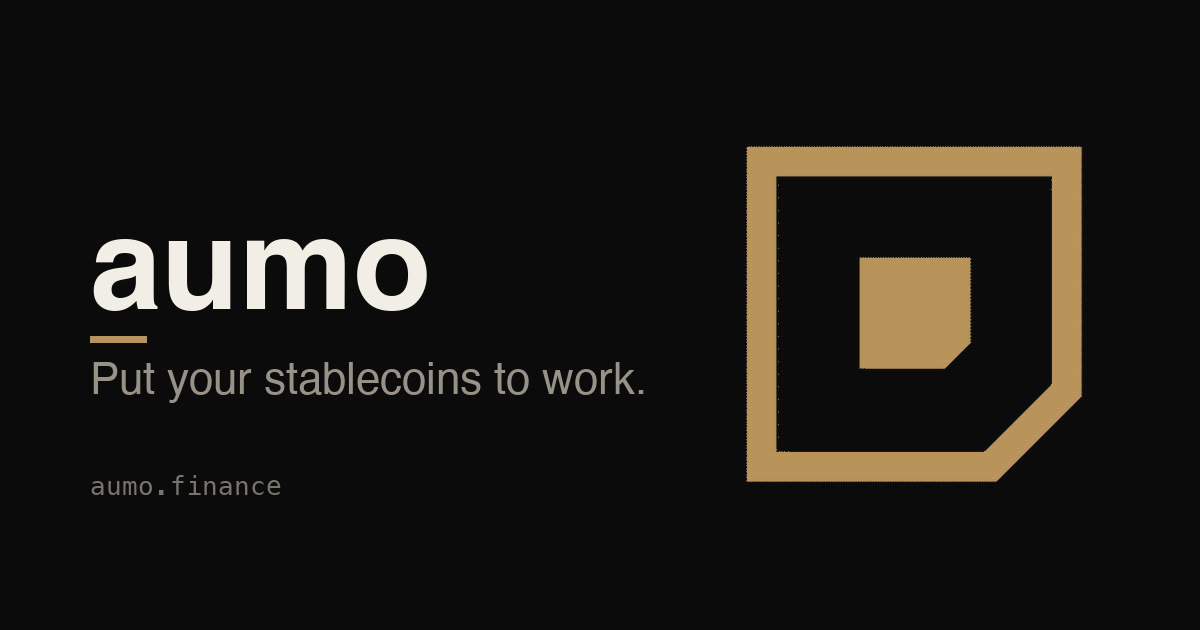
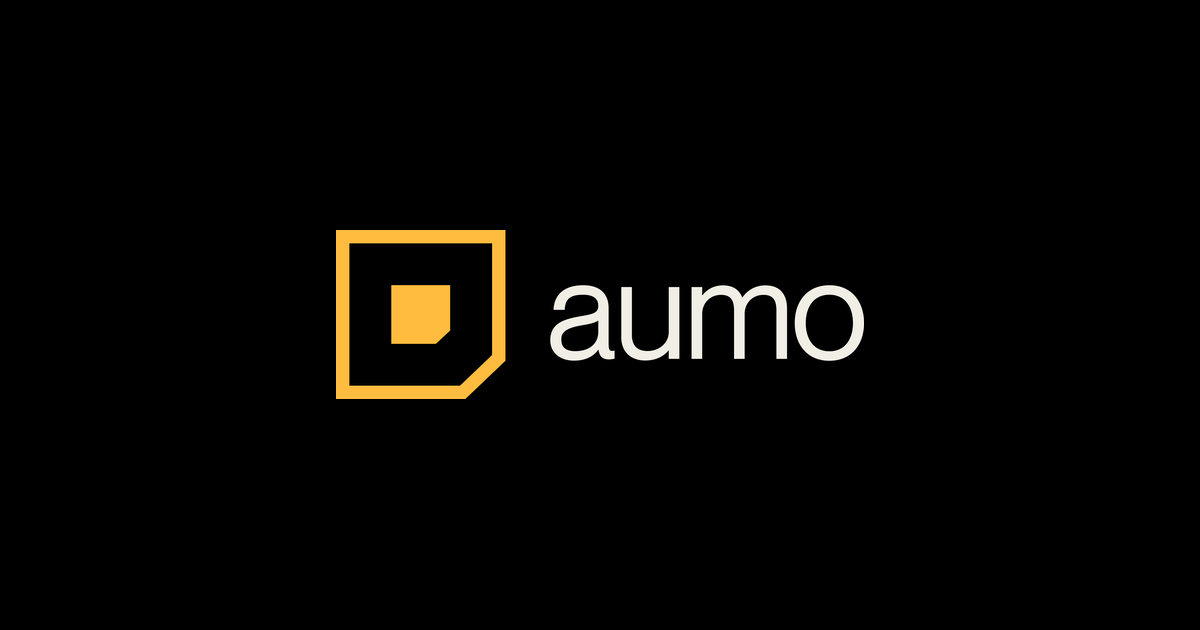
Apply the new brand system + UI fixes from designer feedback
Brand (Brand Guidelines, Aumo 3): follow it exactly, stop improvising.
- palette: Sovereign #FFBC3E (was muted #B8945A), Ink #000000 pure black,
  Off-White #F1EEE5, new Ledger #3D7BFF accent. (Note: PDF hex labels for
  Sovereign/Ledger contradict their own RGB+swatch; followed the RGB/swatch.)
- logo: use the official mark asset (mark-gold.png) everywhere via AumoMark,
  no more hand-drawn SVG; regenerated the favicon and the OG share image from
  the official Full Logo on Ink (fixes the pixelated share preview)
- removed the oversized bleeding wordmark in the footer (my improvisation)

UI fixes:
- Ask Aumo: strip the input's double outline (field-input); render **bold** in
  agent replies instead of showing literal asterisks
- footer sits at the bottom; real X icon + info@aumo.finance email
- wallet: address no longer monospace; balance shown with the real USDT0 token
  logo + token row; USDT0 logo added to the amount/bridge input chips
- overview subtitle shortened

Changed region(s): [[0.0617, 0.2111, 0.925, 0.7841], [0.0617, 0.754, 0.2467, 0.7841]]

diff --git a/web/app/globals.css b/web/app/globals.css
@@ -1,31 +1,32 @@
 @import "tailwindcss";
 
 /* ─────────────────────────────────────────────────────────────────────────
-   Aumo — warm ink & paper from the brand guideline. Near-black (#0B0B0C) and
-   off-white (#F1EEE5) do the work; bullion gold (#B8945A) is the one accent,
-   used only where something is genuinely active.
-   Two themes via [data-theme] (set before paint in layout, so no flash).
+   Aumo brand system (Brand Guidelines): Sovereign gold #FFBC3E is the
+   predominant colour; Ink #000000 and Off-White #F1EEE5 do the base work;
+   Ledger blue #3D7BFF is a complementary accent, used sparingly. Type is PP
+   Neue Montreal. Two themes via [data-theme] (set before paint, so no flash).
    ───────────────────────────────────────────────────────────────────────── */
 :root,
 [data-theme="dark"] {
   color-scheme: dark;
-  --background: #0b0b0c; /* near-black (guideline) */
-  --surface: #101012;
-  --surface-2: #17171a;
-  --card: #101012;
-  --card-2: #17171a;
-  --foreground: #f1eee5; /* off-white (guideline) */
+  --background: #000000; /* Ink */
+  --surface: #0d0d0d;
+  --surface-2: #171717;
+  --card: #0d0d0d;
+  --card-2: #171717;
+  --foreground: #f1eee5; /* Off-White */
   --muted-foreground: #9c988e;
   --faint: #63615a;
-  --border: #201f1c;
+  --border: #232323;
   --hairline: rgba(241, 238, 229, 0.09);
-  --primary: #b8945a; /* Bullion gold - the predominant brand colour */
-  --primary-foreground: #0b0b0c;
-  --accent: #b8945a; /* gold accent (guideline: no other accent) */
-  --accent-foreground: #0b0b0c;
-  --positive: #b8945a; /* active/good reads as gold, per the palette */
+  --primary: #ffbc3e; /* Sovereign — the predominant brand colour */
+  --primary-foreground: #000000;
+  --accent: #ffbc3e;
+  --accent-foreground: #000000;
+  --positive: #ffbc3e; /* active/good reads as Sovereign */
   --negative: #c2957f; /* functional warning only */
-  --ring: #b8945a;
+  --ledger: #3d7bff; /* complementary accent (sparingly) */
+  --ring: #ffbc3e;
   --glyph-rgb: 241, 238, 229;
   --radius: 0.5rem;
   --cut: 14px;
@@ -33,24 +34,27 @@
 
 [data-theme="light"] {
   color-scheme: light;
-  --background: #f1eee5; /* off-white (guideline) */
+  --background: #f1eee5; /* Off-White */
   --surface: #f8f6ef;
   --surface-2: #e8e5da;
   --card: #f8f6ef;
   --card-2: #e8e5da;
-  --foreground: #0b0b0c; /* near-black */
+  --foreground: #000000; /* Ink */
   --muted-foreground: #5c594f;
   --faint: #a29d90;
   --border: #ddd8ca;
-  --hairline: rgba(11, 11, 12, 0.1);
-  --primary: #9c7a3f; /* darker gold for contrast on off-white */
-  --primary-foreground: #f1eee5;
-  --accent: #8a6a34;
-  --accent-foreground: #f1eee5;
-  --positive: #8a6a34;
+  --hairline: rgba(0, 0, 0, 0.1);
+  --primary: #ffbc3e; /* Sovereign (gold fills carry ink text) */
+  --primary-foreground: #000000;
+  /* Sovereign is too light for small text on Off-White; a darker Sovereign is used only for
+     accent TEXT on the light theme (legibility). Fills/logo stay #FFBC3E. */
+  --accent: #9a6f1c;
+  --accent-foreground: #000000;
+  --positive: #9a6f1c;
   --negative: #a2563b;
-  --ring: #0b0b0c;
-  --glyph-rgb: 11, 11, 12;
+  --ledger: #2f63d6;
+  --ring: #000000;
+  --glyph-rgb: 0, 0, 0;
 }
 
 @theme inline {
@@ -69,6 +73,7 @@
   --color-accent-foreground: var(--accent-foreground);
   --color-positive: var(--positive);
   --color-negative: var(--negative);
+  --color-ledger: var(--ledger);
   --color-ring: var(--ring);
   --font-sans: var(--font-sans);
   --font-mono: var(--font-mono);

diff --git a/web/components/site-footer.tsx b/web/components/site-footer.tsx
@@ -1,6 +1,23 @@
 import Link from "next/link";
 import { AumoWordmark } from "./mark";
 
+function XIcon({ className = "" }: { className?: string }) {
+  return (
+    <svg viewBox="0 0 24 24" className={className} fill="currentColor" aria-hidden="true">
+      <path d="M18.244 2.25h3.308l-7.227 8.26 8.502 11.24h-6.66l-5.214-6.817L4.99 21.75H1.68l7.73-8.835L1.254 2.25H8.08l4.713 6.231zm-1.161 17.52h1.833L7.084 4.126H5.117z" />
+    </svg>
+  );
+}
+
+function MailIcon({ className = "" }: { className?: string }) {
+  return (
+    <svg viewBox="0 0 24 24" className={className} fill="none" aria-hidden="true">
+      <rect x="3" y="5" width="18" height="14" rx="2.5" stroke="currentColor" strokeWidth="1.6" />
+      <path d="m4.5 7.5 7.5 5 7.5-5" stroke="currentColor" strokeWidth="1.6" strokeLinecap="round" strokeLinejoin="round" />
+    </svg>
+  );
+}
+
 // App destinations point at the canonical app subdomain (clean URLs, no /app prefix); these are
 // absolute so they resolve the same from the marketing site and the app.
 const APP = "https://app.aumo.finance";
@@ -36,12 +53,11 @@ function Col({ label, links }: { label: string; links: [string, string][] }) {
   );
 }
 
-// Aligned, grouped footer on one grid. Nothing flung to the edges. Closed by the
-// oversized wordmark bleeding off the bottom, on top of the surface.
+// Aligned, grouped footer on one grid. Sits at the bottom of the page (mt-auto in the flex layout).
 export function SiteFooter() {
   return (
-    <footer className="relative isolate mt-auto overflow-hidden border-t border-border/70">
-      <div className="mx-auto w-full max-w-6xl px-5 pt-16 sm:px-8">
+    <footer className="mt-auto border-t border-border/70">
+      <div className="mx-auto w-full max-w-6xl px-5 py-14 sm:px-8">
         <div className="grid grid-cols-2 gap-x-8 gap-y-10 sm:grid-cols-[2fr_1fr_1fr]">
           <div className="col-span-2 sm:col-span-1">
             <AumoWordmark />
@@ -52,18 +68,28 @@ export function SiteFooter() {
           <Col label="Product" links={product} />
           <Col label="Learn" links={learn} />
         </div>
-        <div className="mt-14 flex items-center justify-between border-t border-border/60 py-6 text-xs text-faint">
+        <div className="mt-12 flex items-center justify-between border-t border-border/60 pt-6 text-xs text-faint">
           <span>© 2026 Aumo</span>
-          <div className="flex items-center gap-5">
-            <a href="https://x.com/aumofinance" target="_blank" rel="noreferrer" className="transition-colors hover:text-foreground">X</a>
+          <div className="flex items-center gap-4">
+            <a
+              href="mailto:info@aumo.finance"
+              className="inline-flex items-center gap-1.5 transition-colors hover:text-foreground"
+              aria-label="Email info@aumo.finance"
+            >
+              <MailIcon className="size-4" />
+              <span className="hidden sm:inline">info@aumo.finance</span>
+            </a>
+            <a
+              href="https://x.com/aumofinance"
+              target="_blank"
+              rel="noreferrer"
+              className="inline-flex size-8 items-center justify-center rounded-lg border border-border transition-colors hover:border-foreground/40 hover:text-foreground"
+              aria-label="Aumo on X"
+            >
+              <XIcon className="size-3.5" />
+            </a>
           </div>
         </div>
-      </div>
-      {/* oversized wordmark, anchored flush to the bottom, bleeding off */}
-      <div aria-hidden className="flex select-none justify-center overflow-hidden">
-        <span className="translate-y-[20%] text-[26vw] font-medium leading-none tracking-[-0.03em] text-foreground/[0.07]">
-          aumo
-        </span>
       </div>
     </footer>
   );

diff --git a/web/app/app/vault/page.tsx b/web/app/app/vault/page.tsx
@@ -193,10 +193,15 @@ export default function VaultPage() {
             </div>
           </Panel>
           <Panel className="p-5">
-            <Label>Wallet</Label>
-            <div className="mt-3 flex items-center justify-between">
-              <span className="text-sm text-muted-foreground">USDT0 balance</span>
-              <span className="tnum text-sm"><Num value={num(walletBal)} /></span>
+            <Label>Wallet balance</Label>
+            <div className="mt-3 flex items-center gap-3 rounded-lg border border-border bg-card-2 px-3.5 py-3">
+              {/* eslint-disable-next-line @next/next/no-img-element */}
+              <img src="/brand/usdt0.jpg" alt="" className="size-9 shrink-0 rounded-full" />
+              <div className="flex min-w-0 flex-col">
+                <span className="text-sm font-medium text-foreground">USDT0</span>
+                <span className="text-xs text-muted-foreground">USD₮0 on {activeChain.name}</span>
+              </div>
+              <span className="tnum ml-auto text-lg font-medium text-foreground"><Num value={num(walletBal)} /></span>
             </div>
             <p className="mt-4 text-xs leading-relaxed text-muted-foreground">
               You&apos;ll need some USDT0 to deposit and a little OKB for gas.{" "}
@@ -242,7 +247,10 @@ export default function VaultPage() {
                 className="field-input tnum w-full min-w-0 bg-transparent text-xl font-medium outline-none placeholder:text-faint"
                 aria-label={`${tab} amount in USDT0`}
               />
-              <span className="shrink-0 text-xs font-medium text-muted-foreground">USDT0</span>
+              <span className="flex shrink-0 items-center gap-1.5 text-xs font-medium text-muted-foreground">
+                {/* eslint-disable-next-line @next/next/no-img-element */}
+                <img src="/brand/usdt0.jpg" alt="" className="size-4 rounded-full" /> USDT0
+              </span>
             </div>
           </div>
 

diff --git a/web/components/mark.tsx b/web/components/mark.tsx
@@ -1,33 +1,21 @@
-// The Aumo mark, rebuilt to the designer's geometry (Frame 9): a stroked vault
-// square with the bottom-right corner chamfered - that cut is what turns the box
-// into a lowercase "a" - holding a solid deposit block with its own matching
-// chamfer. currentColor throughout so it themes gold on dark, ink on cream.
-// Swap for the official SVG the moment it lands; the geometry already matches.
-export function AumoMark({ className }: { className?: string }) {
+// The official Aumo mark, straight from the brand kit export. Sovereign gold on transparent, so it
+// reads on both Ink and Off-White backgrounds. This is the designer's asset — do not substitute,
+// recolour, or redraw it. `className` controls size (e.g. size-4); colour classes are ignored.
+export function AumoMark({ className = "" }: { className?: string }) {
   return (
-    <svg
-      viewBox="0 0 48 48"
-      className={className}
-      fill="none"
-      xmlns="http://www.w3.org/2000/svg"
+    // eslint-disable-next-line @next/next/no-img-element
+    <img
+      src="/brand/mark-gold.png"
+      alt=""
       aria-hidden="true"
-    >
-      {/* vault outline, chamfered bottom-right */}
-      <path
-        d="M9 9 H39 V31.5 L31.5 39 H9 Z"
-        stroke="currentColor"
-        strokeWidth="2.8"
-        strokeLinejoin="miter"
-      />
-      {/* deposit block, matching chamfer, sat just up-left of centre */}
-      <path d="M18 18 H29 V25.5 L25.5 29 H18 Z" fill="currentColor" />
-    </svg>
+      className={`inline-block shrink-0 object-contain ${className}`}
+    />
   );
 }
 
 export function AumoWordmark({
   className,
-  markClass = "size-[1.05em] text-primary",
+  markClass = "size-[1.05em]",
 }: {
   className?: string;
   markClass?: string;

diff --git a/web/components/ask-aumo.tsx b/web/components/ask-aumo.tsx
@@ -15,6 +15,20 @@ const SUGGESTIONS = [
   "How do the guardrails protect me?",
 ];
 
+// The agent answers in light markdown (**bold**). Render the bold and drop the raw asterisks so
+// the chat reads clean instead of showing literal ** around venue names.
+function renderRich(text: string) {
+  return text.split(/(\*\*[^*]+\*\*)/g).map((part, i) =>
+    part.startsWith("**") && part.endsWith("**") ? (
+      <strong key={i} className="font-medium text-foreground">
+        {part.slice(2, -2)}
+      </strong>
+    ) : (
+      <span key={i}>{part}</span>
+    ),
+  );
+}
+
 function MicIcon({ className = "" }: { className?: string }) {
   return (
     <svg viewBox="0 0 20 20" className={className} fill="none" aria-hidden="true">
@@ -122,7 +136,7 @@ export function AskAumo({ className = "" }: { className?: string }) {
                         : "max-w-[85%] text-sm leading-relaxed text-foreground/90"
                     }
                   >
-                    {m.text}
+                    {m.role === "agent" ? renderRich(m.text) : m.text}
                   </p>
                 </motion.div>
               ))}
@@ -155,7 +169,7 @@ export function AskAumo({ className = "" }: { className?: string }) {
             value={input}
             onChange={(e) => setInput(e.target.value)}
             placeholder="Ask the agent anything…"
-            className="min-w-0 flex-1 bg-transparent px-2 py-2 text-sm outline-none placeholder:text-muted-foreground"
+            className="field-input min-w-0 flex-1 bg-transparent px-2 py-2 text-sm outline-none placeholder:text-muted-foreground"
             aria-label="Ask Aumo a question"
           />
           <button

diff --git a/web/components/wallet.tsx b/web/components/wallet.tsx
@@ -286,7 +286,7 @@ function AccountMenu({ address, onDisconnect }: { address: string; onDisconnect:
     <div ref={ref} className="relative">
       <button className={btn} onClick={() => setOpen((o) => !o)} aria-expanded={open} aria-haspopup="menu">
         <span className="size-1.5 rounded-full bg-accent" aria-hidden />
-        <span className="font-mono text-xs">{short(address)}</span>
+        <span className="text-xs">{short(address)}</span>
         <svg viewBox="0 0 16 16" className={`size-3.5 text-muted-foreground transition-transform ${open ? "rotate-180" : ""}`} fill="none" aria-hidden="true">
           <path d="M4 6l4 4 4-4" stroke="currentColor" strokeWidth="1.4" strokeLinecap="round" strokeLinejoin="round" />
         </svg>
@@ -306,7 +306,7 @@ function AccountMenu({ address, onDisconnect }: { address: string; onDisconnect:
               </span>
               <div className="flex min-w-0 flex-col">
                 <span className="text-xs text-muted-foreground">Connected</span>
-                <span className="truncate font-mono text-sm text-foreground">{short(address)}</span>
+                <span className="truncate text-sm text-foreground">{short(address)}</span>
               </div>
             </div>
             <div className="my-1 h-px bg-border" />

diff --git a/web/components/bridge-in.tsx b/web/components/bridge-in.tsx
@@ -85,7 +85,10 @@ export function BridgeIn() {
             placeholder="0.00"
             aria-label="Bridge amount in USDT0"
           />
-          <span className="shrink-0 text-xs font-medium text-muted-foreground">USDT0</span>
+          <span className="flex shrink-0 items-center gap-1.5 text-xs font-medium text-muted-foreground">
+            {/* eslint-disable-next-line @next/next/no-img-element */}
+            <img src="/brand/usdt0.jpg" alt="" className="size-4 rounded-full" /> USDT0
+          </span>
         </div>
       </div>
 

diff --git a/web/app/app/page.tsx b/web/app/app/page.tsx
@@ -165,8 +165,7 @@ function Header({ identity }: { identity: Identity }) {
         </span>
       </div>
       <span className="text-sm text-muted-foreground">
-        The autonomous agent, live on {identity.chainName}. This is public, on-chain state, the same
-        view everyone sees. Only your own deposit and balance need a connected wallet.
+        Live on {identity.chainName}. Public on-chain state; only your own deposit needs a wallet.
       </span>
     </header>
   );
